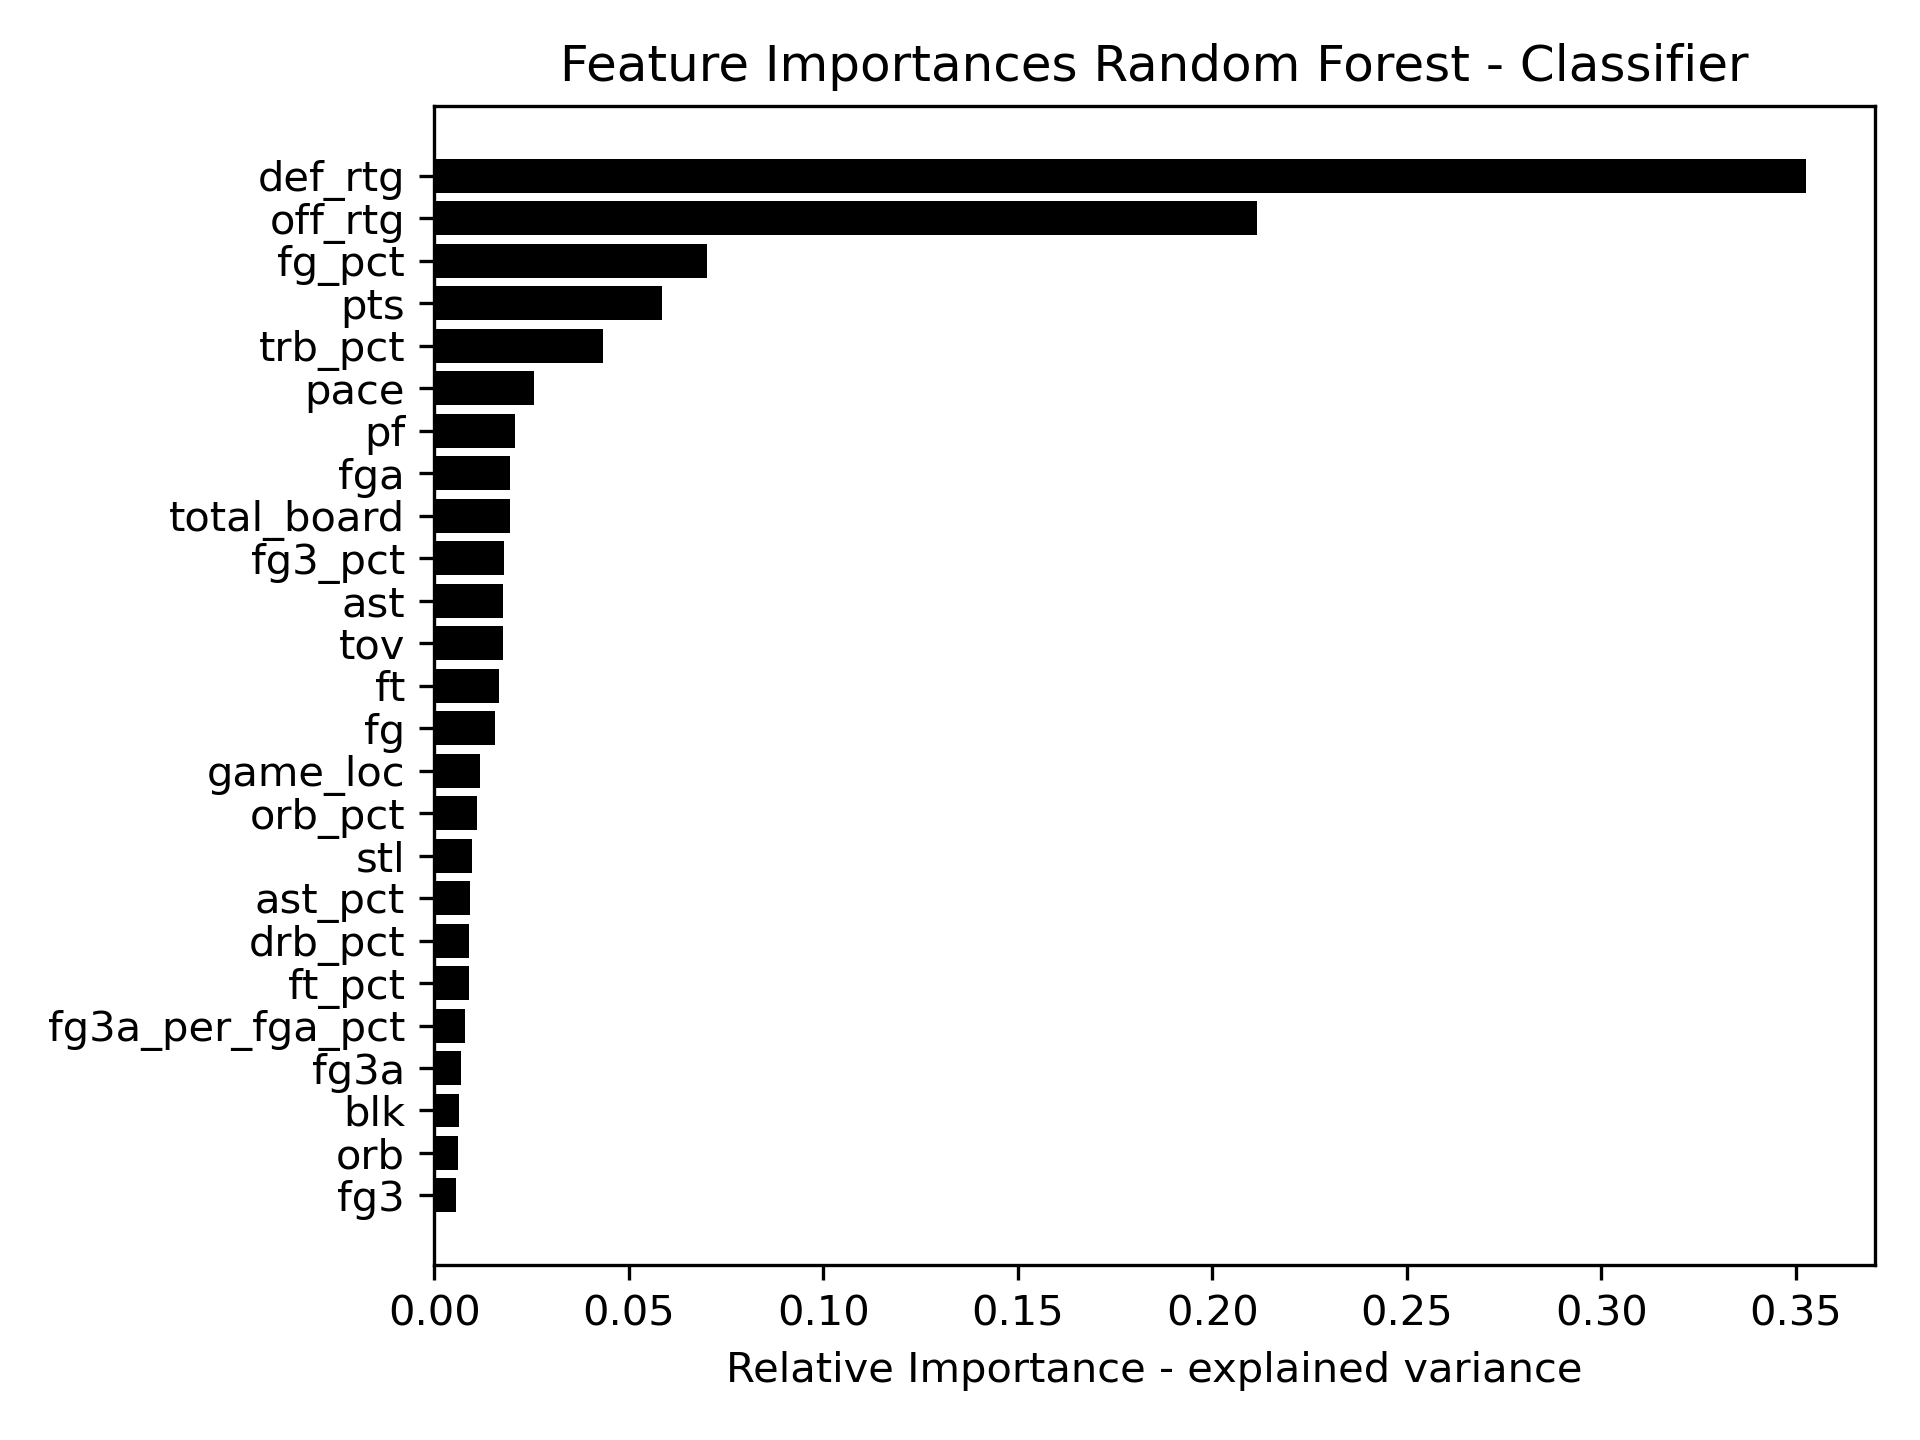
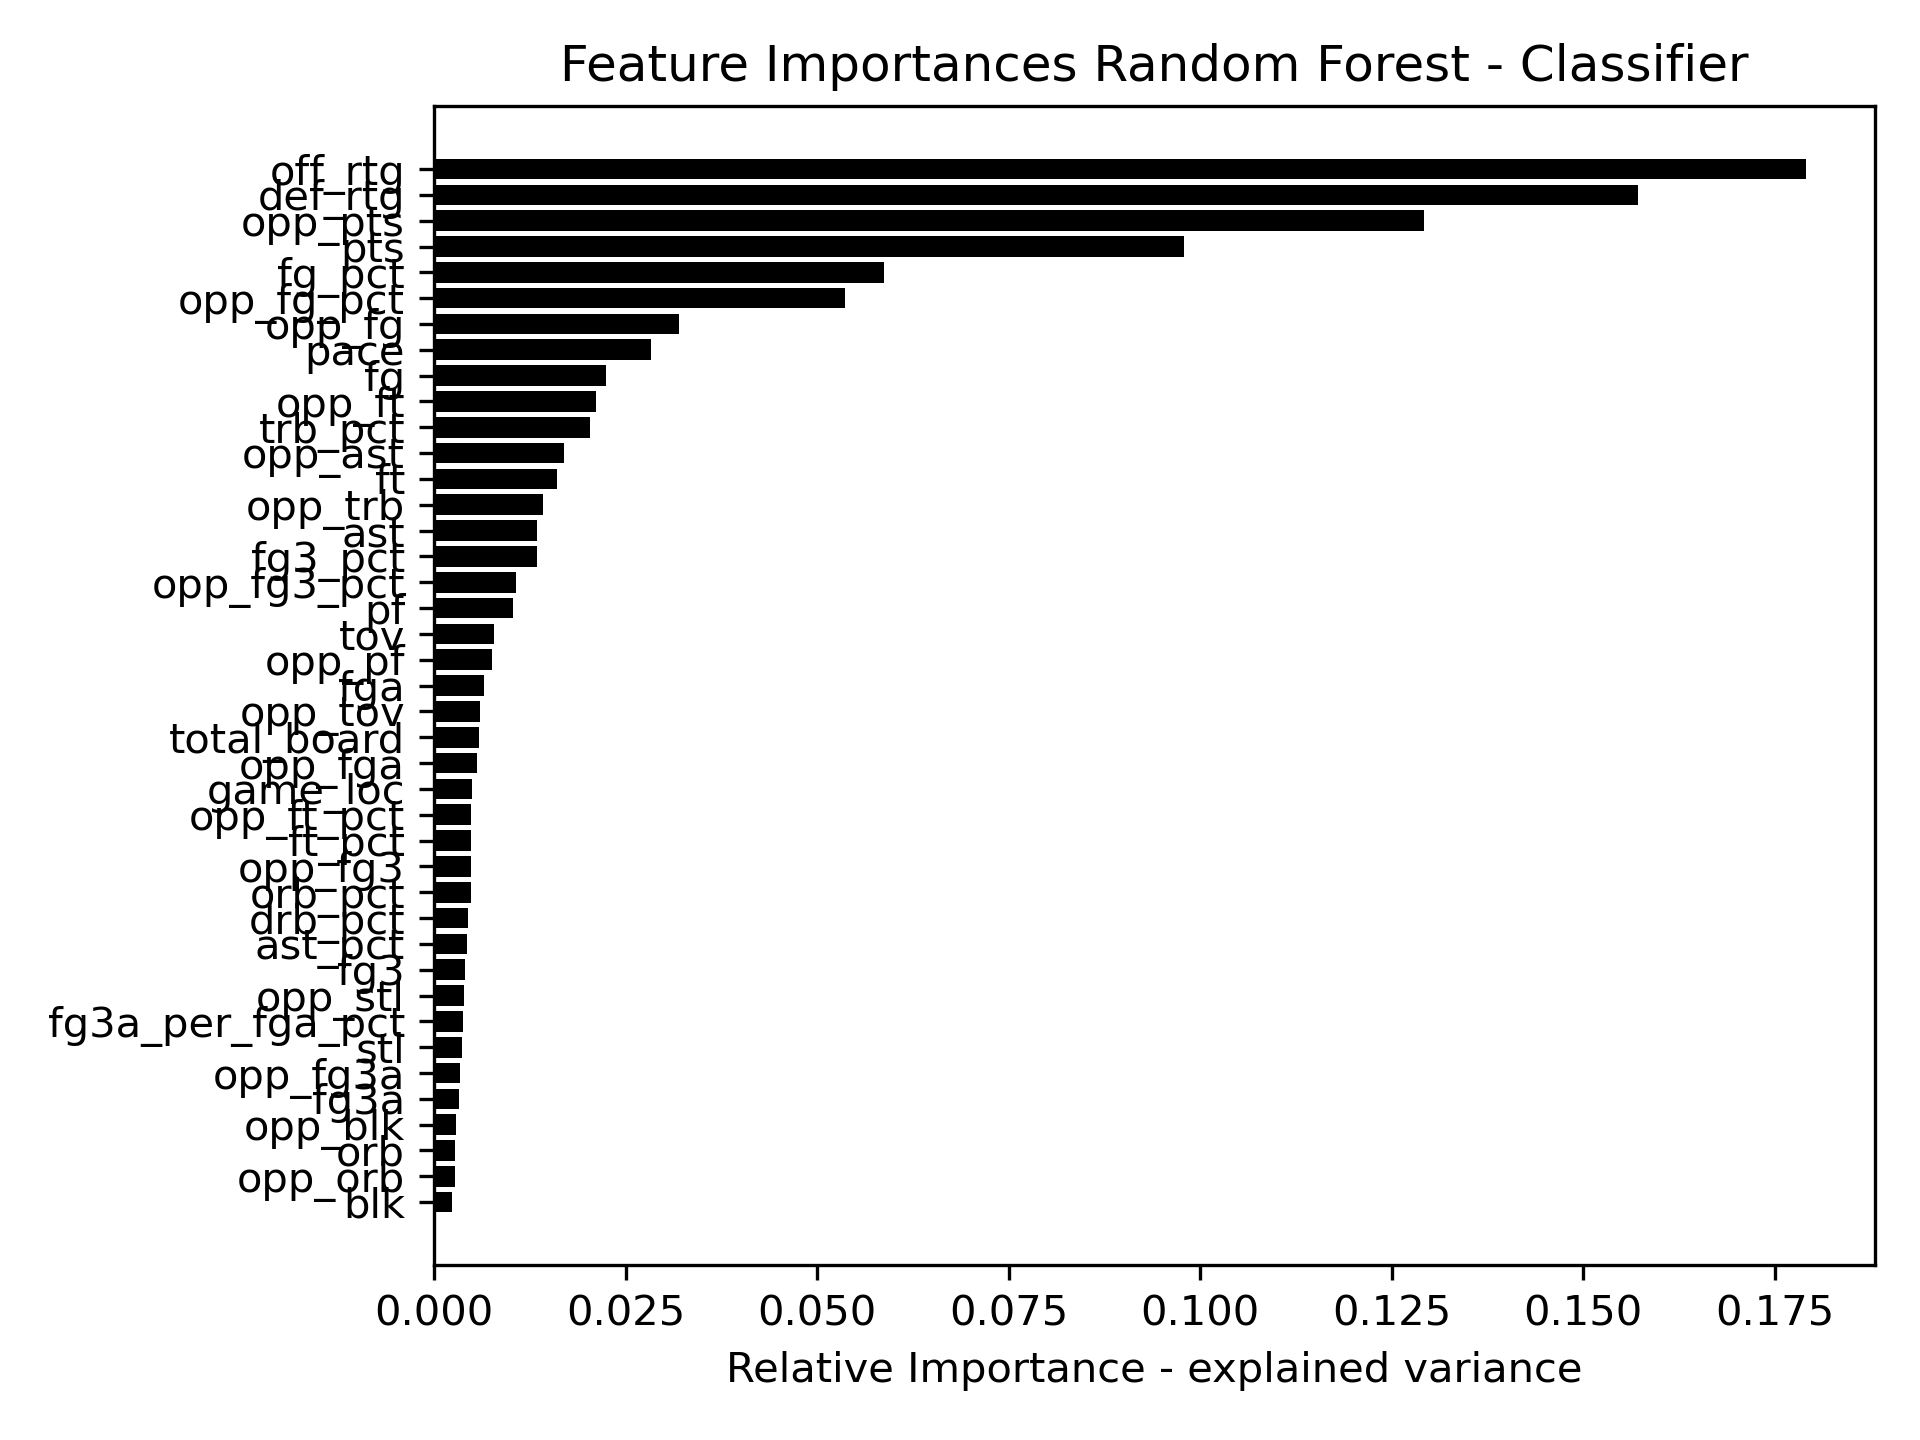
ADD: update model and fix team predictions

diff --git a/cbb_classification.py b/cbb_classification.py
@@ -98,7 +98,7 @@ class cbbClass():
             if 'opp' in col:
                 self.all_data.drop(columns=col,inplace=True)
     def split(self):
-        self.delete_opp()
+        # self.delete_opp()
         for col in self.all_data.columns:
             if 'Unnamed' in col:
                 self.all_data.drop(columns=col,inplace=True)
@@ -150,7 +150,7 @@ class cbbClass():
             RandForclass = RandomForestClassifier()
             #Use the number of features as a stopping criterion for depth
             rows, cols = self.x_train.shape
-            cols = int(cols / 1.15) #try to avoid overfitting on depth
+            cols = int(cols / 2.5) #try to avoid overfitting on depth
             #square root of the total number of features is a good limit
             # cols = int(np.sqrt(cols))
             #parameters to tune
@@ -172,14 +172,14 @@ class cbbClass():
             # with open('randomForestModelTuned.pkl','wb') as f:
             #     pickle.dump(search_rand,f)
             joblib.dump(search_rand, "./classifierModelTuned.joblib", compress=9)
-            print('RandomForestRegressor - best params: ',search_rand.best_params_)
+            print('RandomForestClassifier - best params: ',search_rand.best_params_)
             self.RandForclass = search_rand
             prediction = self.RandForclass.predict(self.x_test)
             print(confusion_matrix(self.y_test, prediction))# Display accuracy score
             print(f'Model accuracy: {accuracy_score(self.y_test, prediction)}')# Display F1 score
             # print(f1_score(self.y_test, prediction))
         else:
-            print('Load tuned Random Forest Regressor')
+            print('Load tuned Random Forest Classifier')
             # load RandomForestModel
             self.RandForclass=joblib.load("./classifierModelTuned.joblib")
             prediction = self.RandForclass.predict(self.x_test)
@@ -228,12 +228,12 @@ class cbbClass():
                 team_2_df2023.replace('', np.nan, inplace=True)
                 team_2_df2023.dropna(inplace=True)
                 #Remove pts and game result
-                for col in team_1_df2023.columns:
-                    if 'opp' in col:
-                        team_1_df2023.drop(columns=col,inplace=True)
-                for col in team_2_df2023.columns:
-                    if 'opp' in col:
-                        team_2_df2023.drop(columns=col,inplace=True)
+                # for col in team_1_df2023.columns:
+                #     if 'opp' in col:
+                #         team_1_df2023.drop(columns=col,inplace=True)
+                # for col in team_2_df2023.columns:
+                #     if 'opp' in col:
+                #         team_2_df2023.drop(columns=col,inplace=True)
                 team_1_df2023.drop(columns=['game_result'],inplace=True)
                 team_2_df2023.drop(columns=['game_result'],inplace=True)
                 #Drop the correlated features
@@ -244,7 +244,8 @@ class cbbClass():
                 team_2_count = 0
                 team_1_count_mean = 0
                 team_2_count_mean = 0
-                team_1_ma = []
+                team_1_ma_win = []
+                team_1_ma_loss = []
                 team_2_ma = []
                 for ma in tqdm(ma_range):
                     data1_median = team_1_df2023.rolling(ma).median()
@@ -259,19 +260,33 @@ class cbbClass():
                     data2_mean['game_loc'] = game_loc_team2
                     # team_1_predict_median = self.RandForclass.predict(data1_median.iloc[-1:])
                     # team_2_predict_median = self.RandForclass.predict(data2_median.iloc[-1:])
+                    #Here replace opponent metrics with the features of the second team
+                    for col in team_1_df2023.columns:
+                        if "opp" in col:
+                            if col == 'opp_trb':
+                                # new_col = col.replace("opp_", "")
+                                data1_mean.loc[data1_mean.index[-1], 'opp_trb'] = data2_mean.loc[data2_mean.index[-1], 'total_board']
+                                # data1_mean['opp_trb'].iloc[-1] = data2_mean['total_board'].iloc[-1]
+                            else:
+                                new_col = col.replace("opp_", "")
+                                data1_mean.loc[data1_mean.index[-1], col] = data2_mean.loc[data2_mean.index[-1], new_col]
+                                # data1_mean[col].iloc[-1] = data2_mean[new_col].iloc[-1]
                     team_1_predict_mean = self.RandForclass.predict_proba(data1_mean.iloc[-1:])
-                    team_2_predict_mean = self.RandForclass.predict_proba(data2_mean.iloc[-1:])
+                    # team_2_predict_mean = self.RandForclass.predict_proba(data2_mean.iloc[-1:])
                     # both = self.RandForclass.predict_proba(concat([data1_mean.iloc[-1:], data2_mean.iloc[-1:]]))
-                    team_1_ma.append(team_1_predict_mean[0][1])
-                    team_2_ma.append(team_2_predict_mean[0][1])
+                    team_1_ma_win.append(team_1_predict_mean[0][1])
+                    team_1_ma_loss.append(team_1_predict_mean[0][0])
+                # team_2_ma.append(team_2_predict_mean[0][1])
                 print('===============================================================')
-                print(f'{team_1} winning: {np.mean(team_1_ma)}%')
-                print(f'{team_2} winning: {np.mean(team_2_ma)}%')
+                print(f'{team_1} win probability {np.mean(team_1_ma_win)}%')
+                print(f'{team_1} loss probability {np.mean(team_1_ma_loss)}%')
+                # print(f'{team_2} winning: {np.mean(team_2_ma)}%')
                 print('===============================================================')
-                if np.mean(team_1_ma) > np.mean(team_2_ma):
+                if np.mean(team_1_ma_win) > np.mean(team_1_ma_loss):
                     print(f'{team_1} wins')
-                elif np.mean(team_1_ma) < np.mean(team_2_ma):
+                else:
                     print(f'{team_2} wins')
+                print('===============================================================')
                 if "tod" in sys.argv[2]:
                     date_today = str(datetime.now().date()).replace("-", "")
                 elif "tom" in sys.argv[2]:

diff --git a/cbb_ml_classification.py b/cbb_ml_classification.py
@@ -1,0 +1,109 @@
+# ML classification and prediction probabilities
+"""
+- Predict like normally with 0 and 1 being the output 
+- feature engineer running features based on the top 5 features from the old 
+ml algorithm.
+- then use the code below to compare two teams' probability of beating each other:
+# Load the preprocessed data for the two teams
+team1_data = pd.read_csv("team1_data.csv")
+team2_data = pd.read_csv("team2_data.csv")
+
+# Combine the data for the two teams
+matchup_data = pd.concat([team1_data, team2_data])
+
+# Use the trained model to make predictions
+probabilities = trained_model.predict_proba(matchup_data)
+
+# Extract the probability of team 1 winning
+team1_win_prob = probabilities[0][0]
+print("Probability of team 1 winning: ", team1_win_prob)
+"""
+import cbb_web_scraper
+from os import getcwd
+from os.path import join, exists 
+import yaml
+from tqdm import tqdm
+from time import sleep
+from pandas import DataFrame, concat, read_csv, isnull
+import numpy as np
+from sklearn.model_selection import train_test_split
+from sklearn.model_selection import GridSearchCV
+from sklearn.ensemble import RandomForestClassifier
+import matplotlib.pyplot as plt 
+import seaborn as sns
+from sys import argv
+from sklearn.metrics import mean_squared_error, r2_score
+# from sklearn.model_selection import cross_val_score, KFold
+import pickle
+import joblib
+import sys
+import os
+from scipy.stats import variation
+from difflib import get_close_matches
+from datetime import datetime, timedelta
+class cbbClassifier():
+    def __init__(self):
+        print('initialize class cbb_regressor')
+        self.all_data = DataFrame()
+
+    def get_teams(self):
+        year_list_find = []
+        year_list = [2023,2022,2021,2019,2018,2017,2016,2015,2014,2013,2012] #,2014,2013,2012,2011,2010
+        if exists(join(getcwd(),'year_count.yaml')):
+            with open(join(getcwd(),'year_count.yaml')) as file:
+                year_counts = yaml.load(file, Loader=yaml.FullLoader)
+        else:
+            year_counts = {'year':year_list_find}
+        #Remove any years that have already been collected
+        if year_counts['year']:
+            year_list_check =  year_counts['year']
+            year_list_find = year_counts['year']
+            year_list = [i for i in year_list if i not in year_list_check]
+            print(f'Need data for year: {year_list}')
+        #Collect data per year
+        if year_list:   
+            for year in tqdm(year_list):
+                all_teams = cbb_web_scraper.get_teams_year(year_list[-1],year_list[0])
+                team_names = sorted(all_teams)
+                final_list = []
+                self.year_store = year
+                for abv in tqdm(team_names):    
+                    try:
+                        print() #tqdm things
+                        print(f'current team: {abv}, year: {year}')
+                        basic = 'https://www.sports-reference.com/cbb/schools/' + abv + '/' + str(self.year_store) + '-gamelogs.html'
+                        adv = 'https://www.sports-reference.com/cbb/schools/' + abv + '/' + str(self.year_store) + '-gamelogs-advanced.html'
+                        df_inst = cbb_web_scraper.html_to_df_web_scrape_cbb(basic,adv,abv,self.year_store)
+                        df_inst['pts'].replace('', np.nan, inplace=True)
+                        df_inst.dropna(inplace=True)
+                        final_list.append(df_inst)
+                    except Exception as e:
+                        print(e)
+                        print(f'{abv} data are not available')
+                    sleep(4) #I get get banned for a small period of time if I do not do this
+                final_data = concat(final_list)
+                if exists(join(getcwd(),'all_data_regressor.csv')):
+                    self.all_data = read_csv(join(getcwd(),'all_data_regressor.csv'))  
+                self.all_data = concat([self.all_data, final_data.dropna()])
+                if not exists(join(getcwd(),'all_data_regressor.csv')):
+                    self.all_data.to_csv(join(getcwd(),'all_data_regressor.csv'))
+                self.all_data.to_csv(join(getcwd(),'all_data_regressor.csv'))
+                year_list_find.append(year)
+                print(f'year list after loop: {year_list_find}')
+                with open(join(getcwd(),'year_count.yaml'), 'w') as write_file:
+                    yaml.dump(year_counts, write_file)
+                    print(f'writing {year} to yaml file')
+        else:
+            self.all_data = read_csv(join(getcwd(),'all_data_regressor.csv'))
+        print('len data: ', len(self.all_data))
+        self.all_data = self.all_data.drop_duplicates(keep='last')
+        print(f'length of data after duplicates are dropped: {len(self.all_data)}')
+    def create_new_features(self):
+        pass
+    def run_analysis():
+        pass
+
+def main():
+    cbbClassifier().run_analysis()
+if __name__ == '__main__':
+    main()
